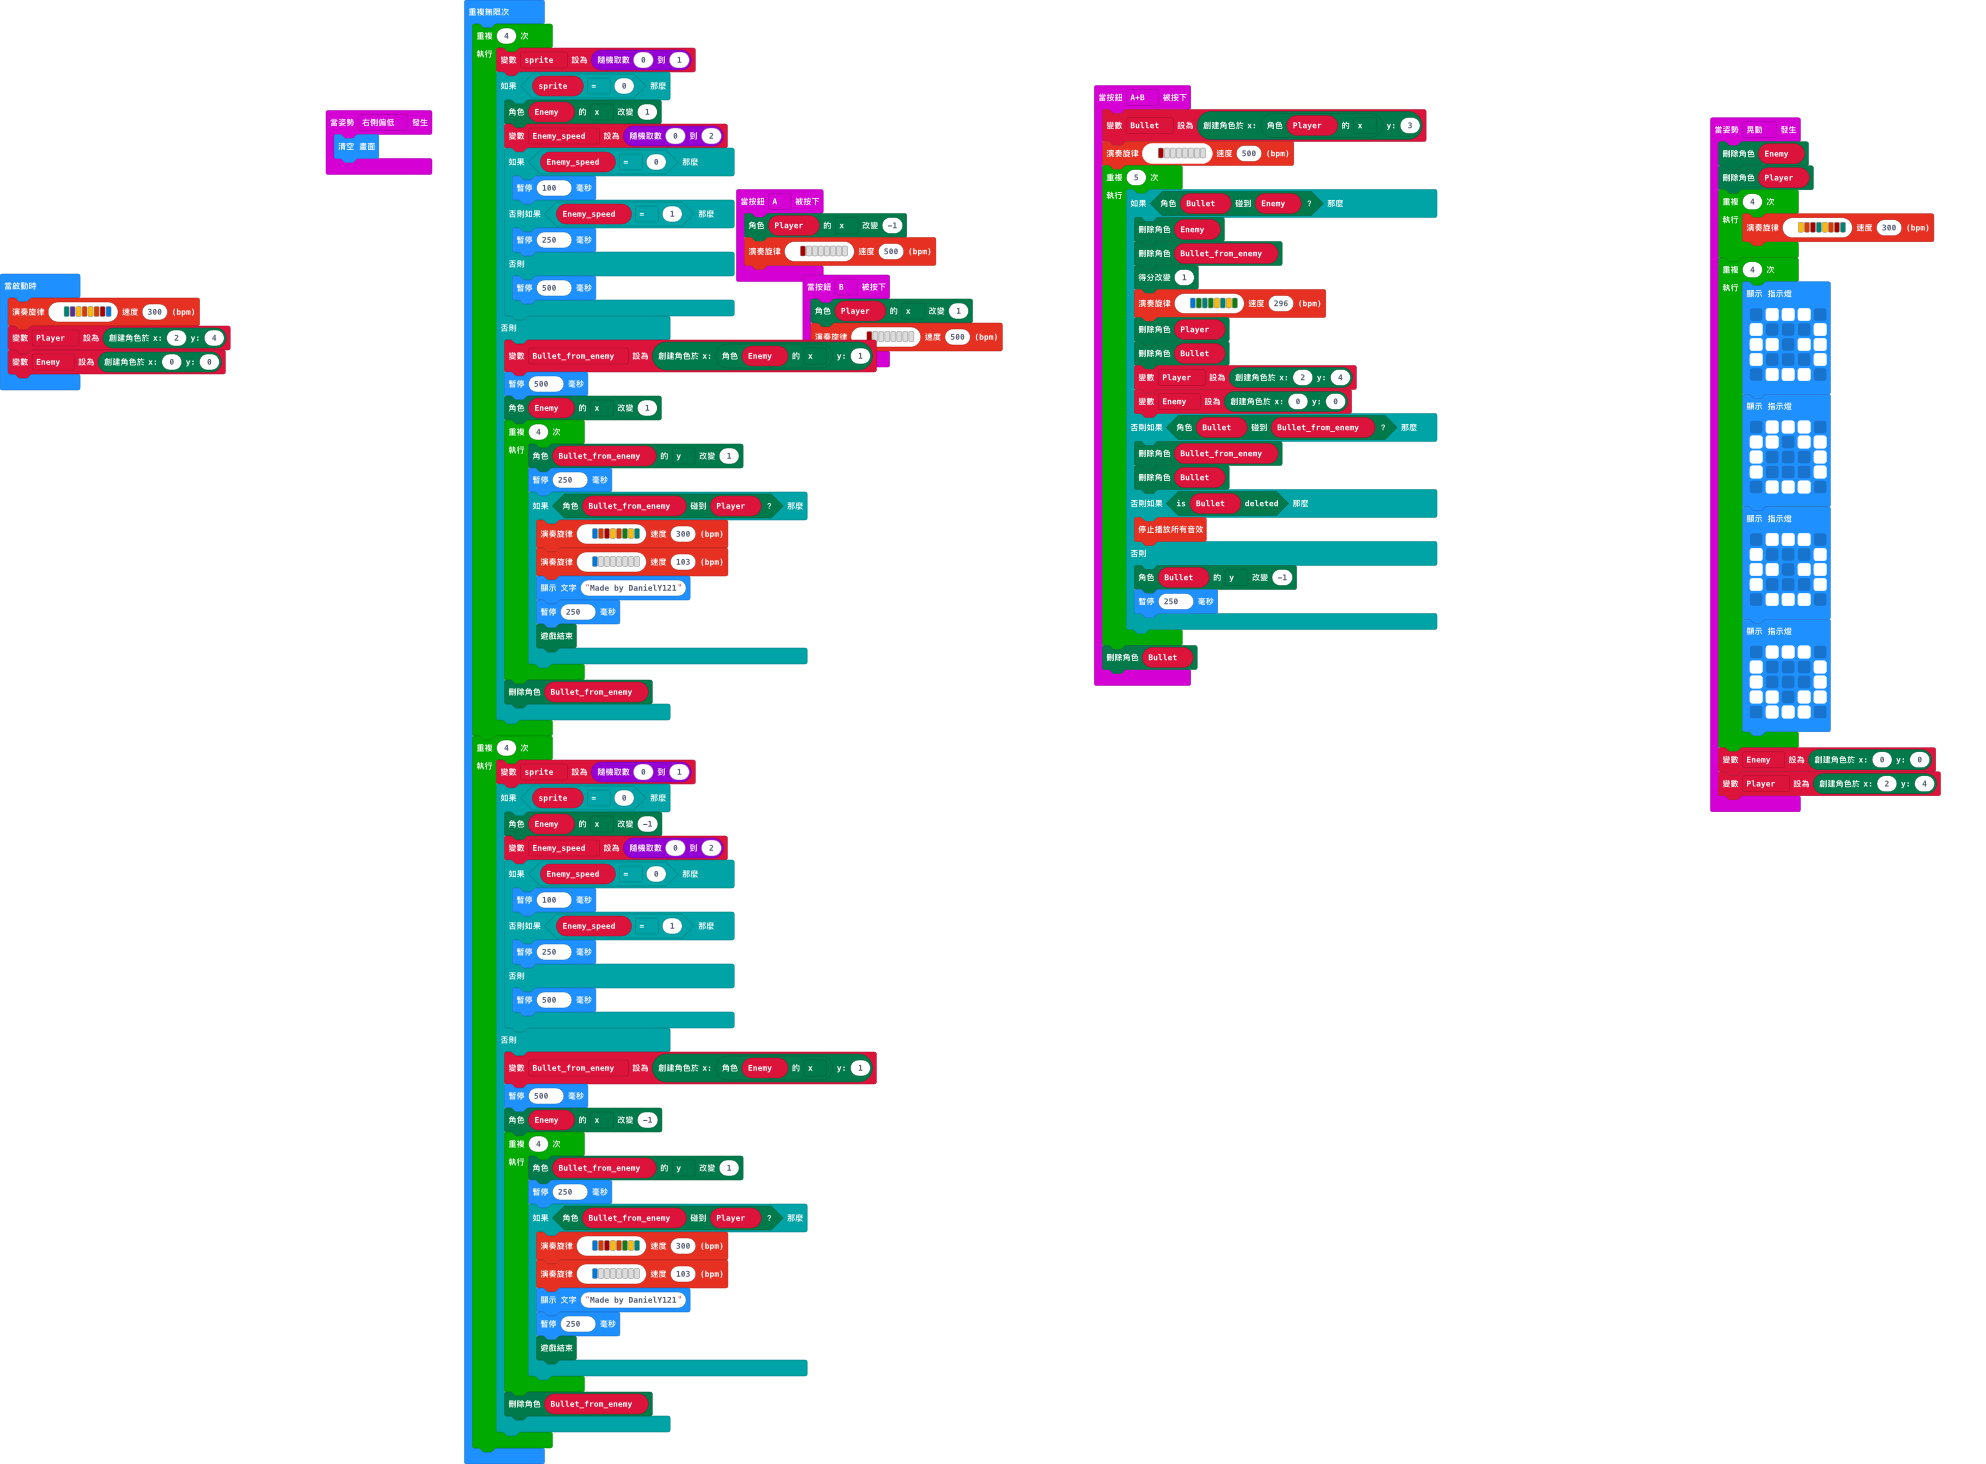
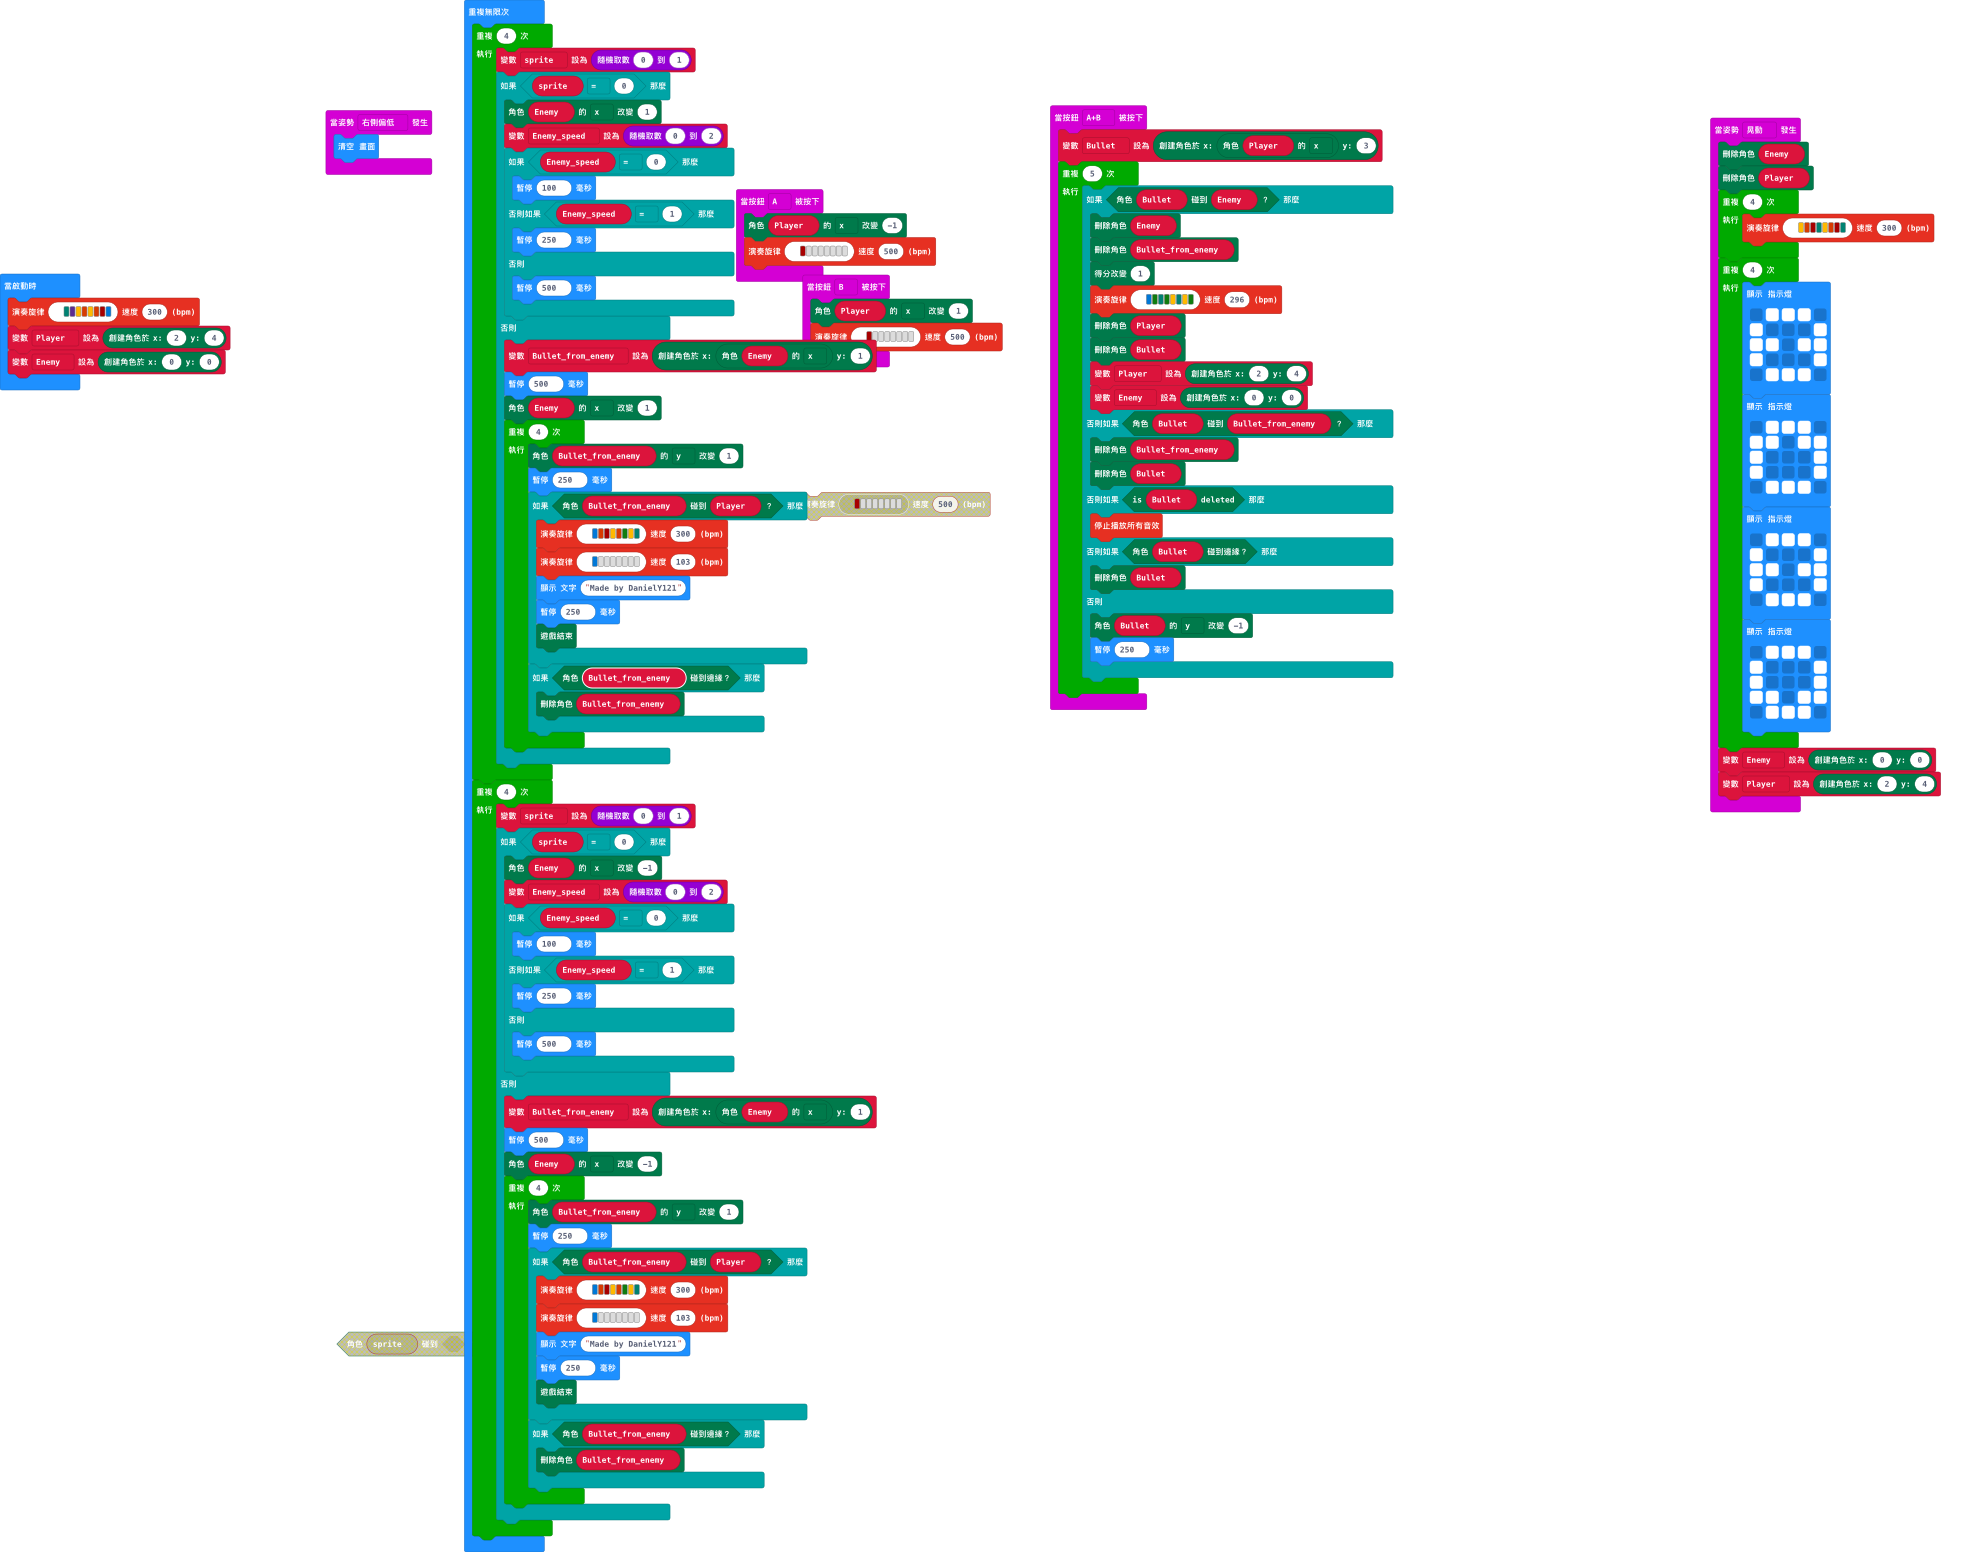
更新 main.blocks, main.ts

diff --git a/main.ts b/main.ts
@@ -43,7 +43,6 @@ input.onGesture(Gesture.Shake, function () {
 })
 input.onButtonPressed(Button.AB, function () {
     Bullet = game.createSprite(Player.get(LedSpriteProperty.X), 3)
-    music.playMelody("C5 - - - - - - - ", 500)
     for (let index = 0; index < 5; index++) {
         if (Bullet.isTouching(Enemy)) {
             Enemy.delete()
@@ -59,12 +58,13 @@ input.onButtonPressed(Button.AB, function () {
             Bullet.delete()
         } else if (Bullet.isDeleted()) {
             music.stopAllSounds()
+        } else if (Bullet.isTouchingEdge()) {
+            Bullet.delete()
         } else {
             Bullet.change(LedSpriteProperty.Y, -1)
             basic.pause(250)
         }
     }
-    Bullet.delete()
 })
 input.onButtonPressed(Button.B, function () {
     Player.change(LedSpriteProperty.X, 1)
@@ -109,8 +109,10 @@ basic.forever(function () {
                     basic.pause(250)
                     game.gameOver()
                 }
+                if (Bullet_from_enemy.isTouchingEdge()) {
+                    Bullet_from_enemy.delete()
+                }
             }
-            Bullet_from_enemy.delete()
         }
     }
     for (let index = 0; index < 4; index++) {
@@ -139,8 +141,10 @@ basic.forever(function () {
                     basic.pause(250)
                     game.gameOver()
                 }
+                if (Bullet_from_enemy.isTouchingEdge()) {
+                    Bullet_from_enemy.delete()
+                }
             }
-            Bullet_from_enemy.delete()
         }
     }
 })
